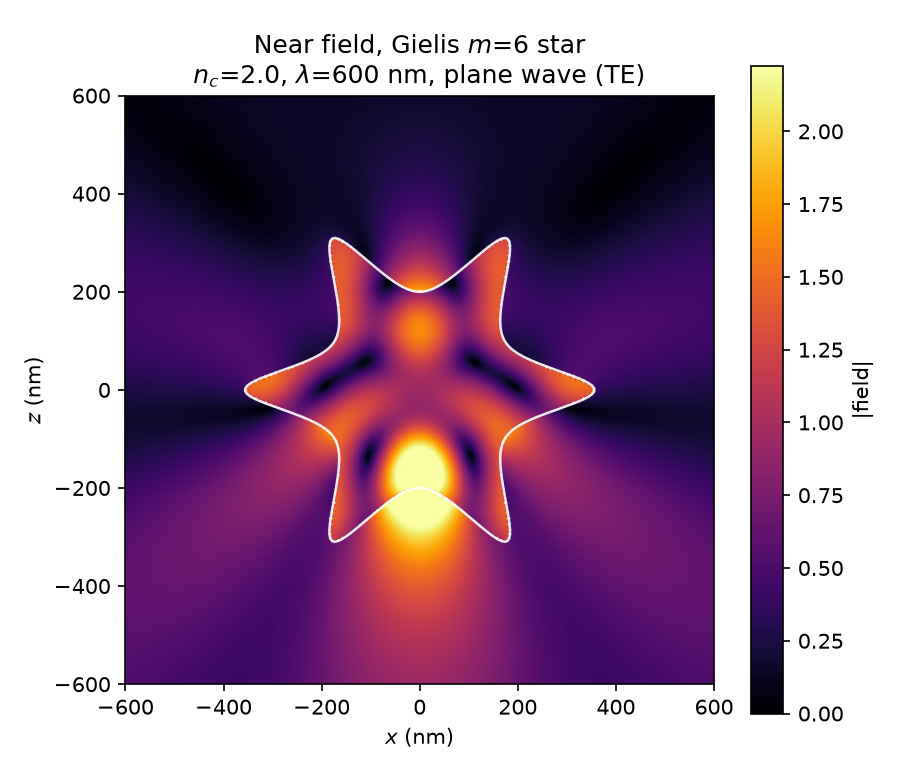
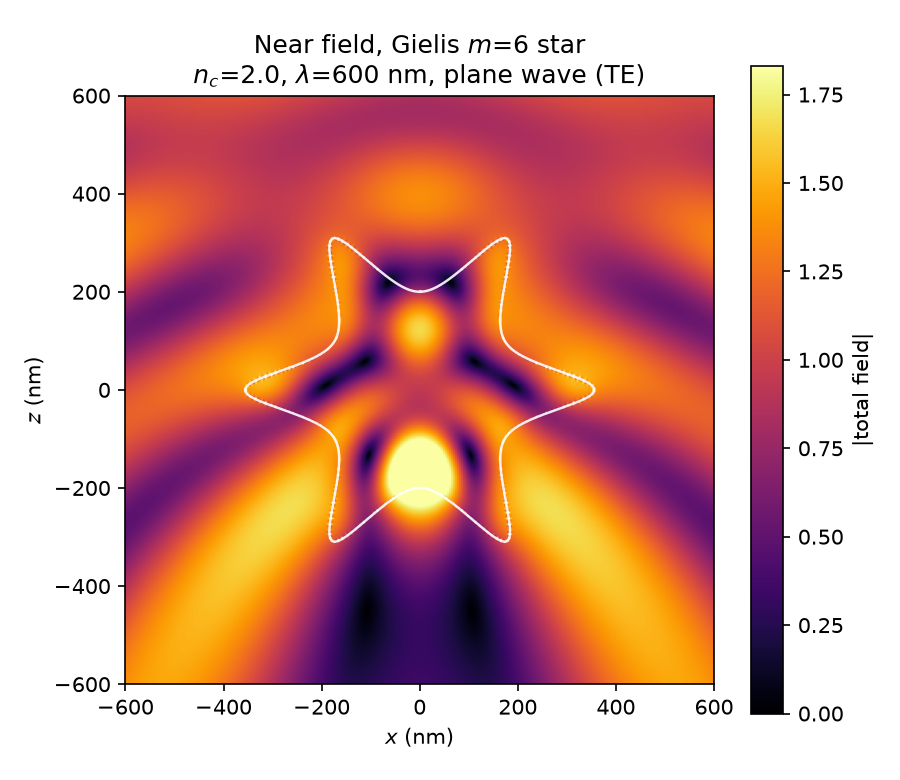
docs: near-field map shows the total field

diff --git a/examples/nearfield_map.py b/examples/nearfield_map.py
@@ -1,9 +1,10 @@
 """Near-field map of a Gielis star under plane-wave illumination.
 
 Evaluates the field on a 2-D grid around an ``m = 6`` Gielis superformula
-particle. The interior is filled by passing the particle index ``ri`` to the
-representation formula, so the map shows the scattered field outside the
-boundary and the internal field inside it. The particle boundary is overlaid.
+particle. ``eval_field`` returns the scattered field outside the boundary and
+the total field inside it, so the incident wave is added outside: the map is
+the total field everywhere, continuous across the boundary. The particle
+boundary is overlaid.
 
 Colour scale: ``|field|`` from 0 to the 99th percentile of the grid values
 (printed at run time). Values within a few boundary-point spacings of the
@@ -18,6 +19,7 @@ from pathlib import Path
 
 import matplotlib.pyplot as plt
 import numpy as np
+from matplotlib.path import Path as Polygon
 
 from pysie2d import BIESolver, Geometry, Material
 
@@ -43,6 +45,12 @@ def main() -> None:
     axis = np.linspace(-GRID_HALF_WIDTH, GRID_HALF_WIDTH, GRID_N)
     xx, zz = np.meshgrid(axis, axis)
     field = result.eval_field(xx.ravel(), zz.ravel()).reshape(xx.shape)
+    inside = Polygon(np.column_stack([geom.f, geom.g])).contains_points(
+        np.column_stack([xx.ravel(), zz.ravel()])
+    )
+    # Incidence at angle 0 is exp(−i k_bg z) (sources.plane_wave_rhs).
+    incident = np.exp(-1j * mat.wnum_bg(WAVELENGTH) * zz)
+    field = field + np.where(inside.reshape(xx.shape), 0.0, incident)
     magnitude = np.abs(field)
 
     vmax = float(np.percentile(magnitude, 99))
@@ -69,7 +77,7 @@ def main() -> None:
         f"$n_c$={N_CORE}, $\\lambda$={WAVELENGTH:.0f} nm, plane wave (TE)"
     )
     ax.set_aspect("equal")
-    fig.colorbar(im, ax=ax, label="|field|")
+    fig.colorbar(im, ax=ax, label="|total field|")
     fig.tight_layout()
 
     out = Path(__file__).resolve().parent.parent / "figures" / "nearfield_map.png"
